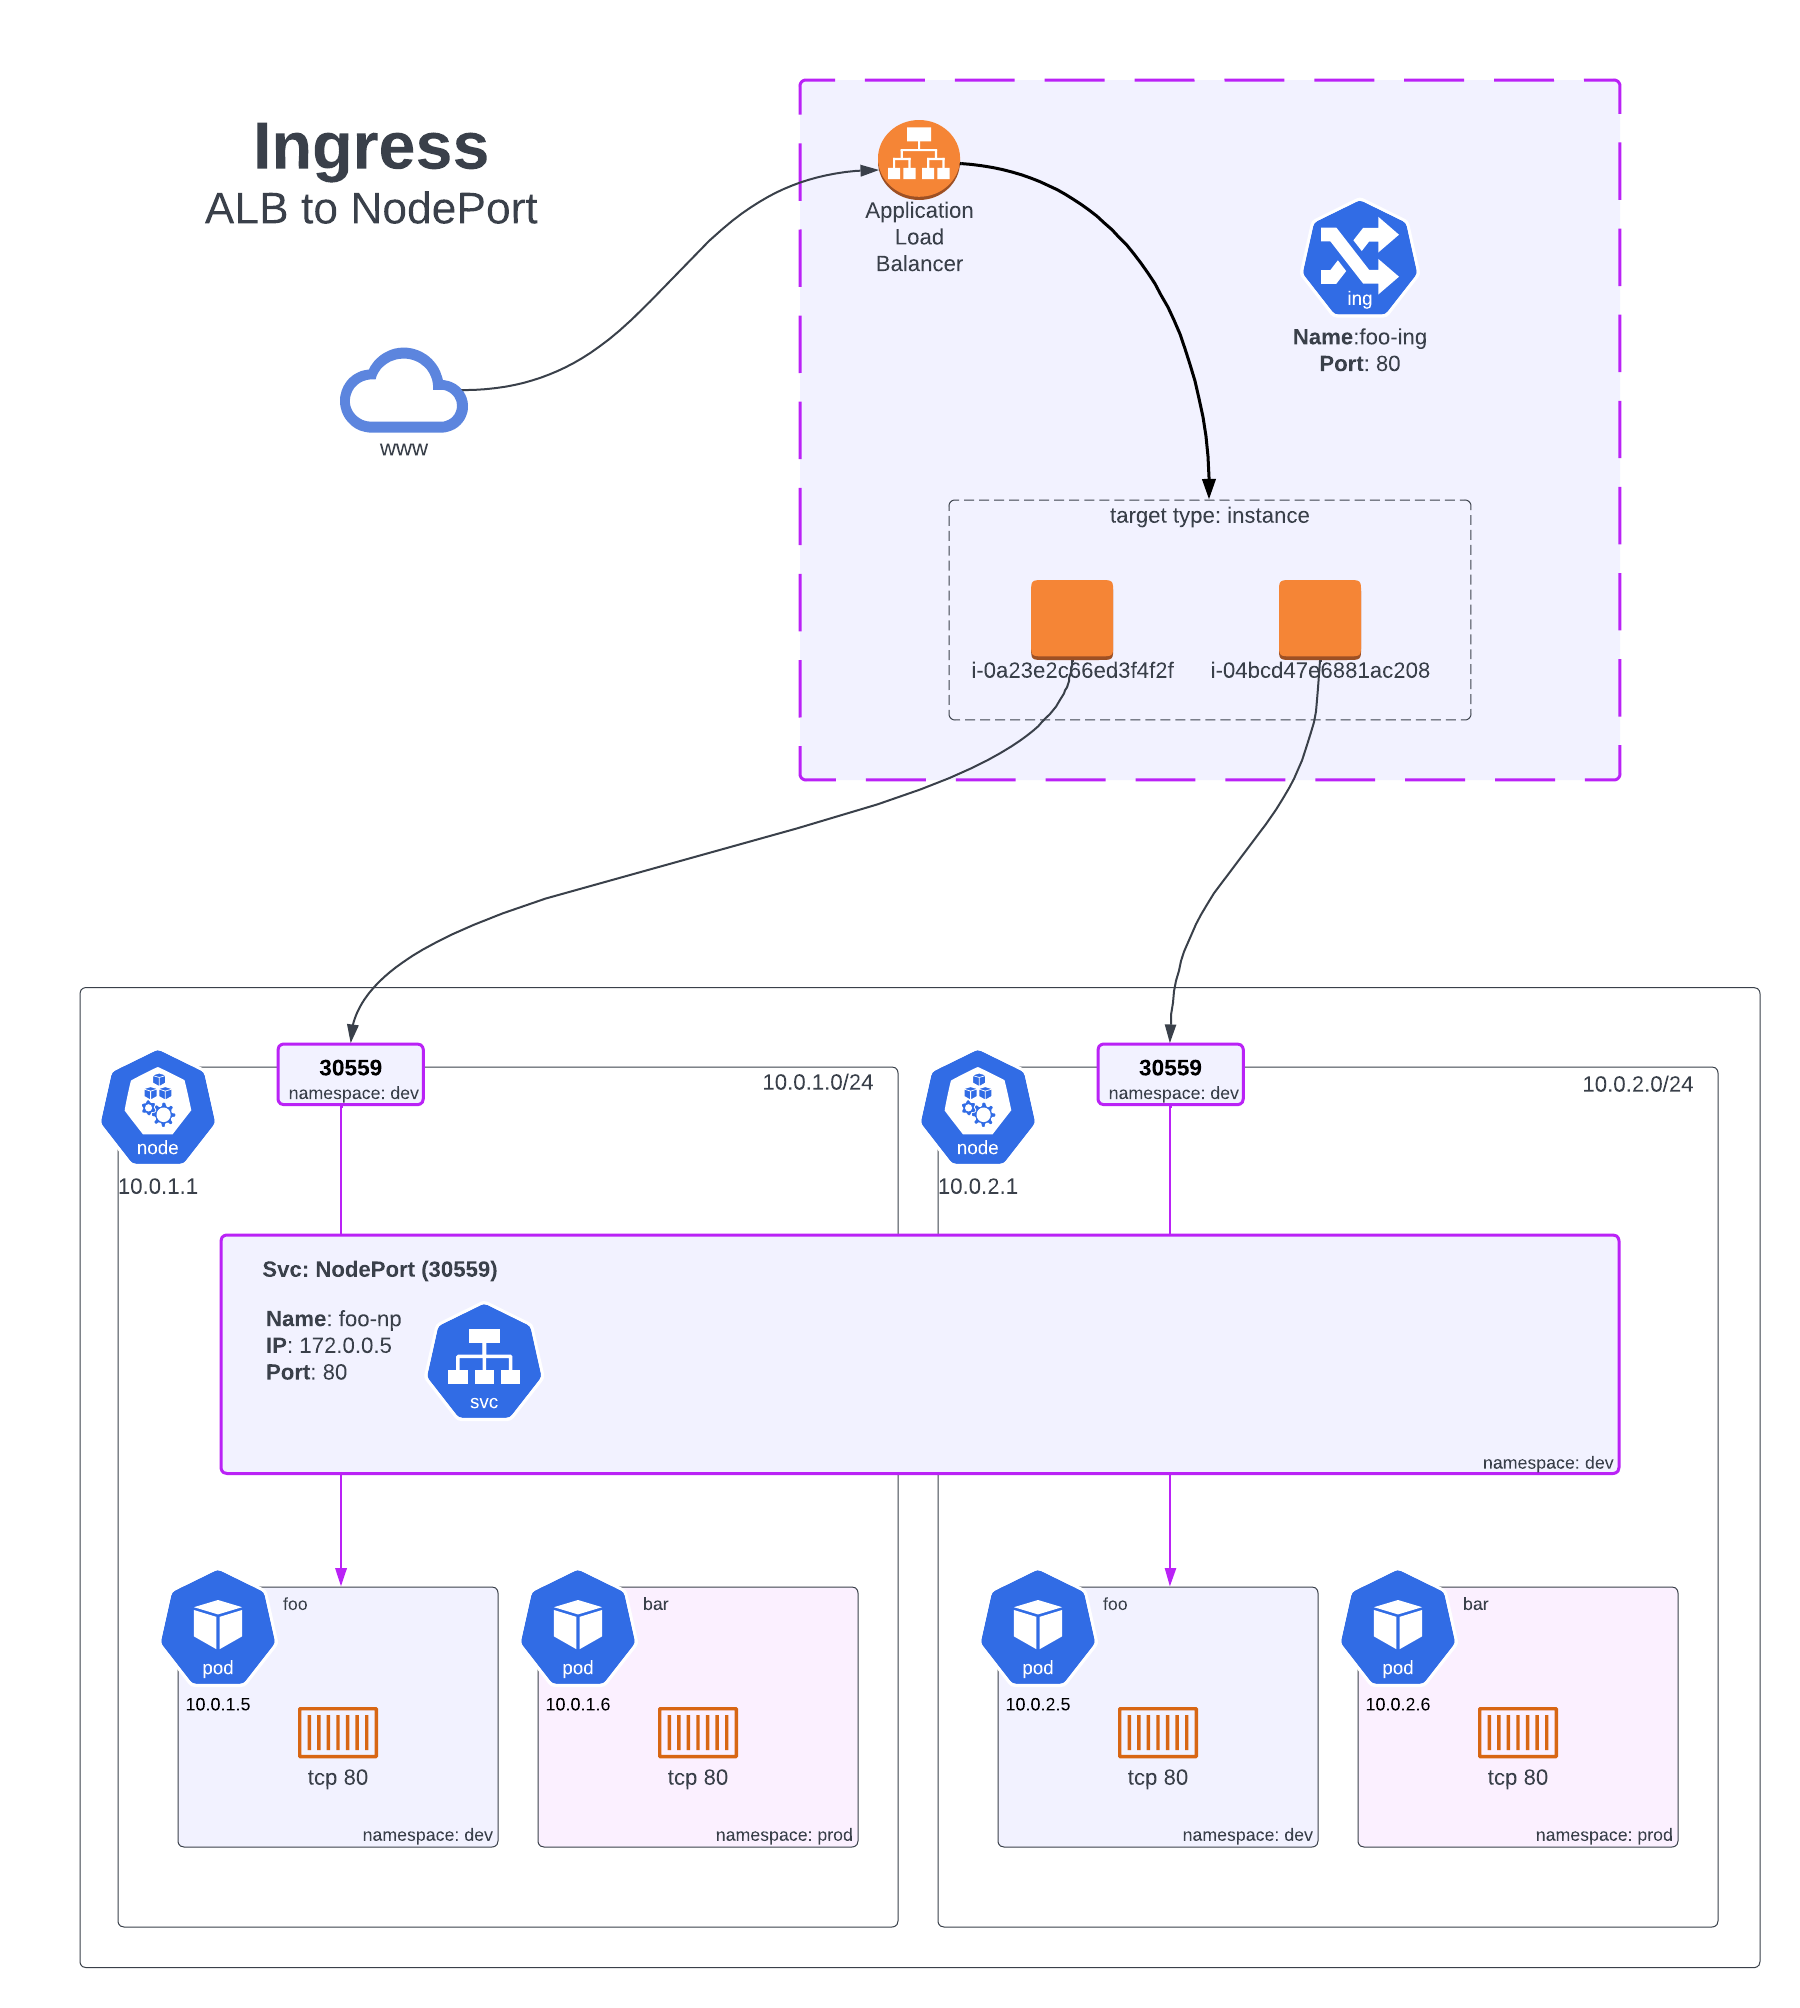
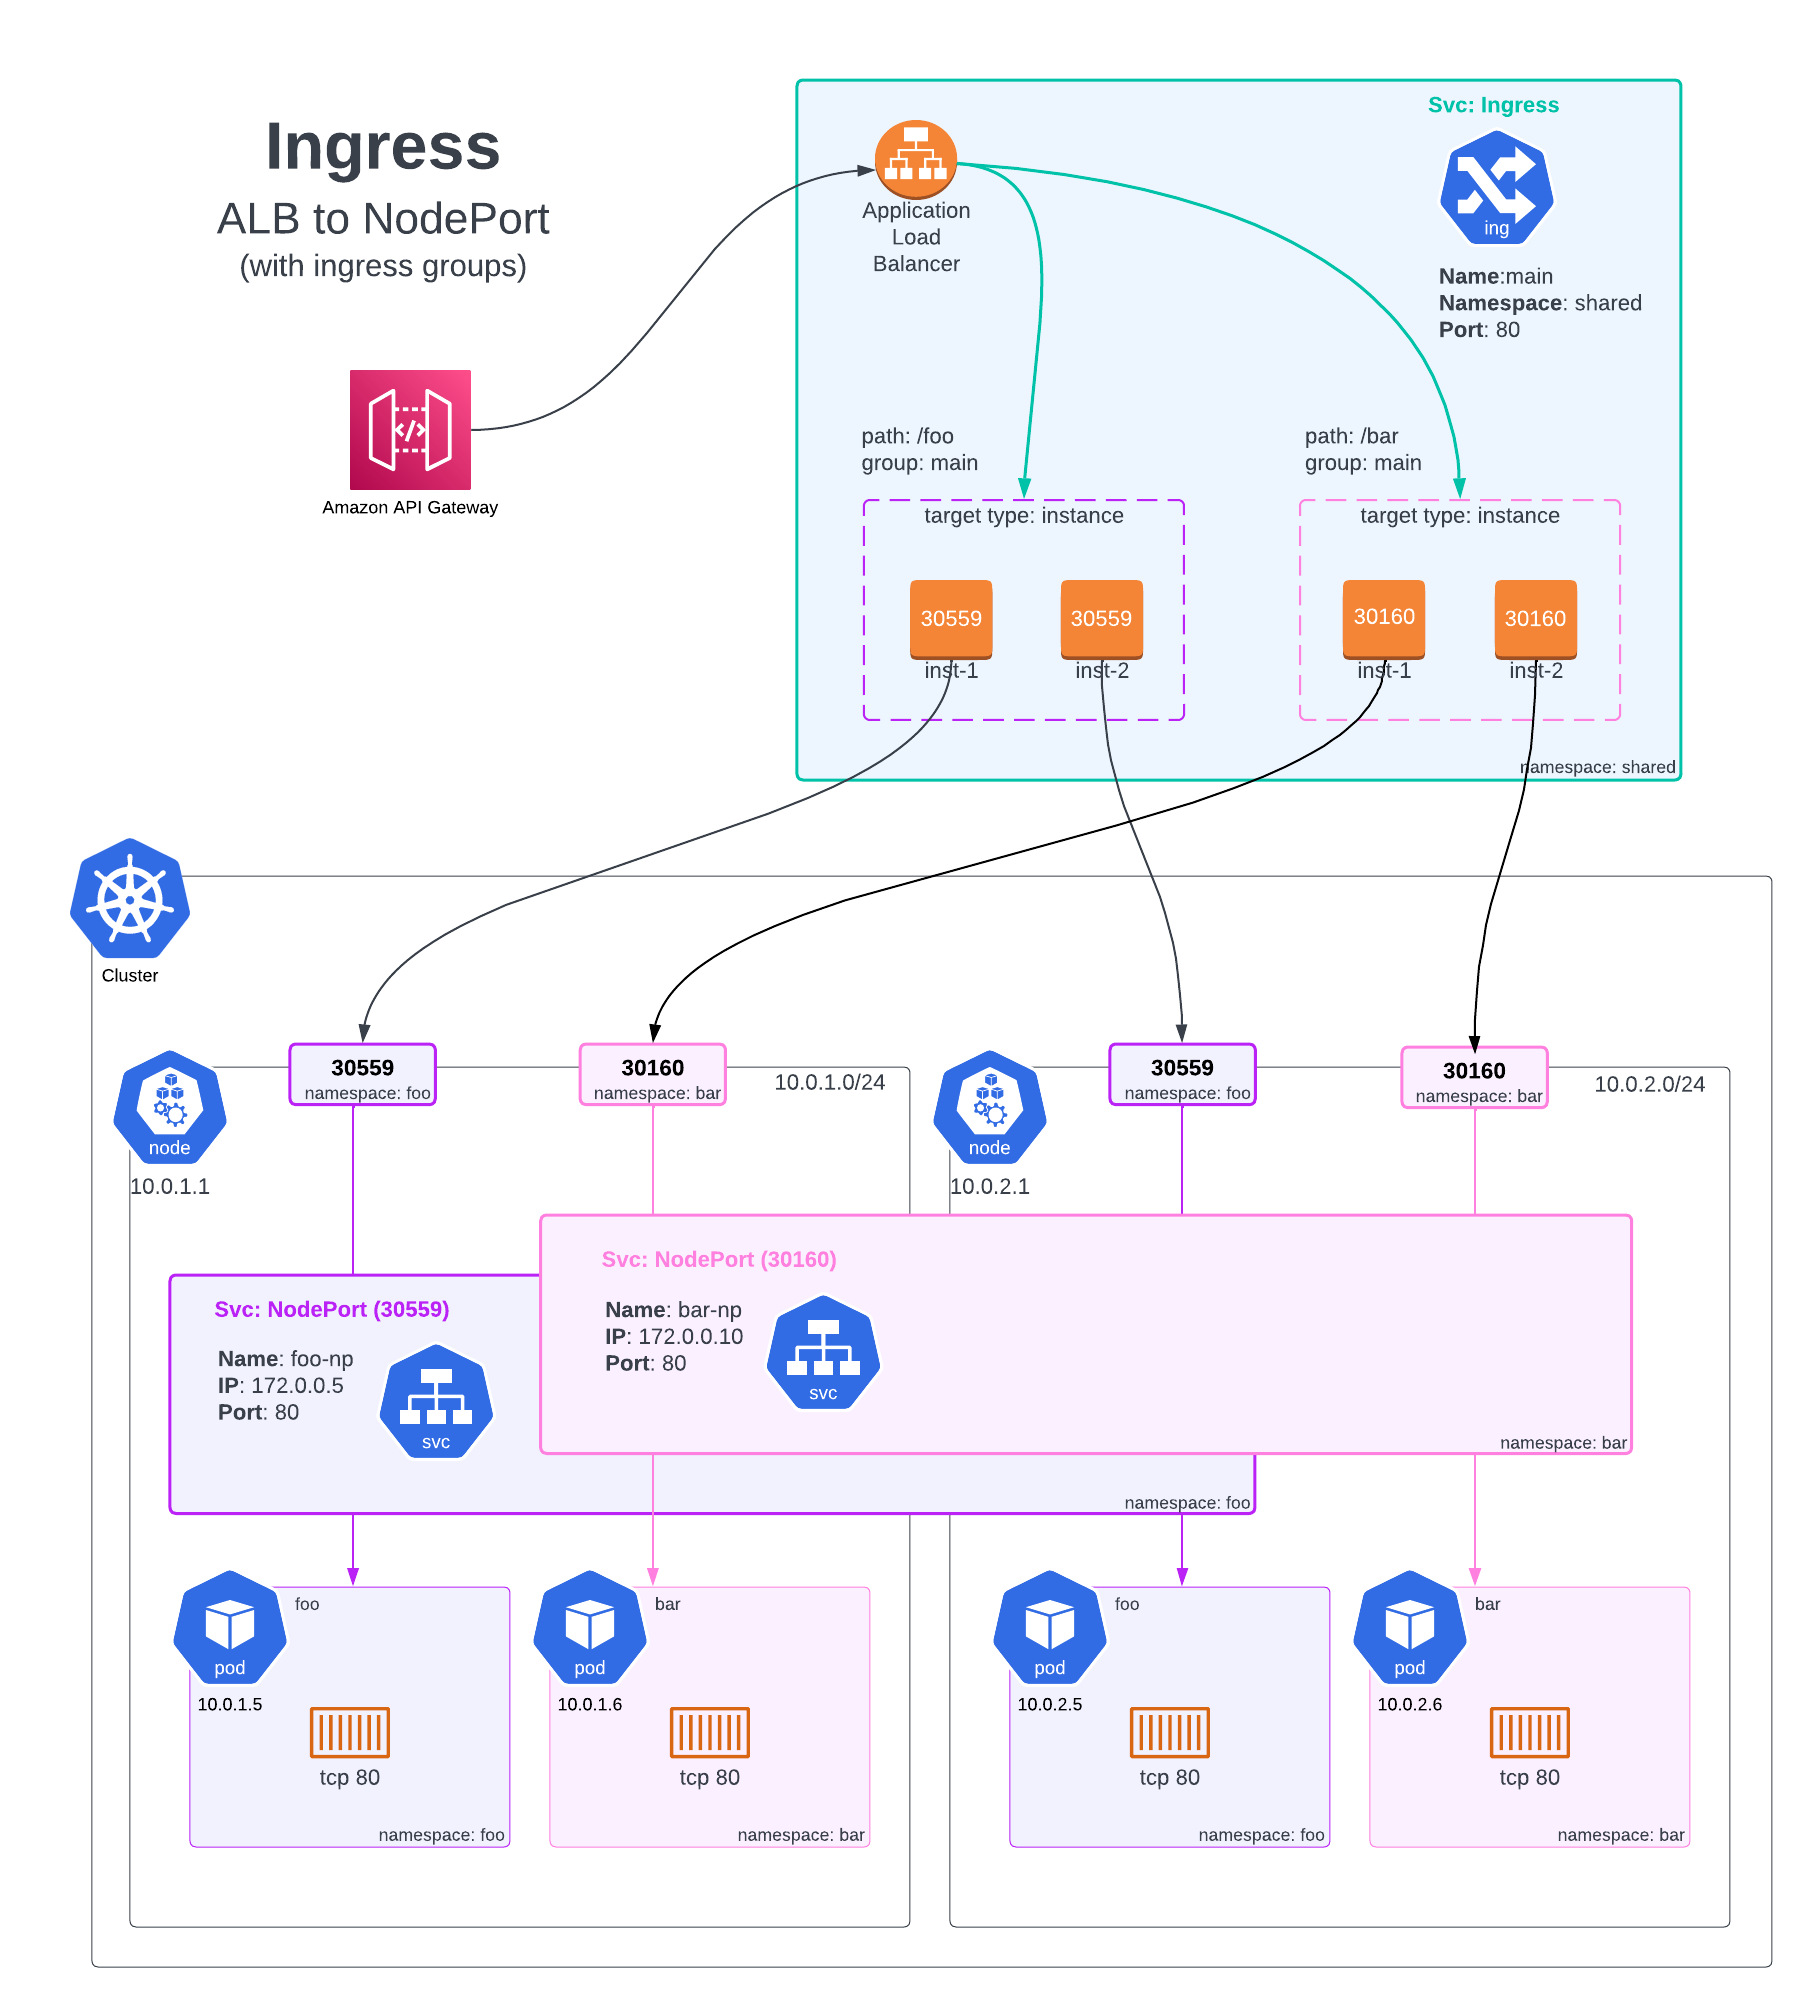
Ingress span namespaces

diff --git a/deploy/networking-and-service-examples/5-ingress/README.md b/deploy/networking-and-service-examples/5-ingress/README.md
@@ -2,8 +2,21 @@
 
 ![K8s-Networking-Ingress.png](K8s-Networking-Ingress.png)
 
+## Ingress rules (AWS ALB)
+
+![ingress-rules.png](ingress-rules.png)
+
 ## Ref
 
 https://docs.aws.amazon.com/eks/latest/userguide/alb-ingress.html
 
 https://kubernetes-sigs.github.io/aws-load-balancer-controller/v2.4/guide/ingress/annotations/#security-groups
+
+### Ingress Groups
+
+https://catalog.workshops.aws/eks-immersionday/en-US/services-and-ingress/multi-ingress
+
+https://kubernetes-sigs.github.io/aws-load-balancer-controller/v2.2/guide/ingress/annotations/#ingressgroup
+
+https://catalog.workshops.aws/eks-immersionday/en-US/services-and-ingress/ingress#5.-create-ingress
+
